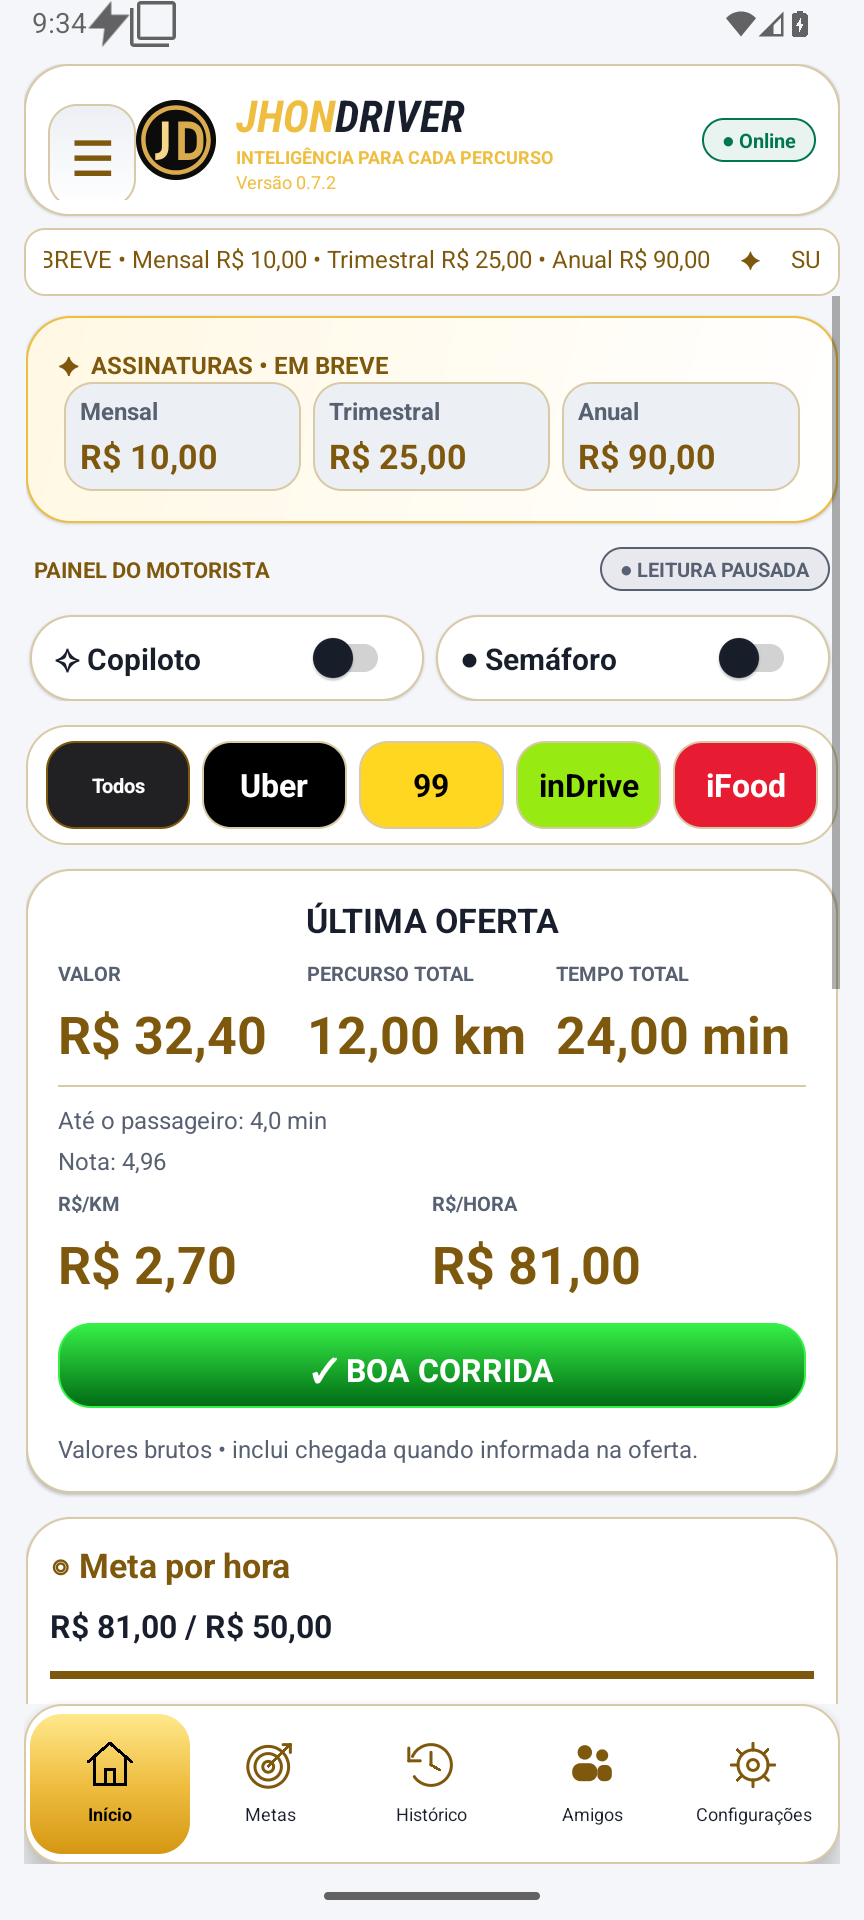
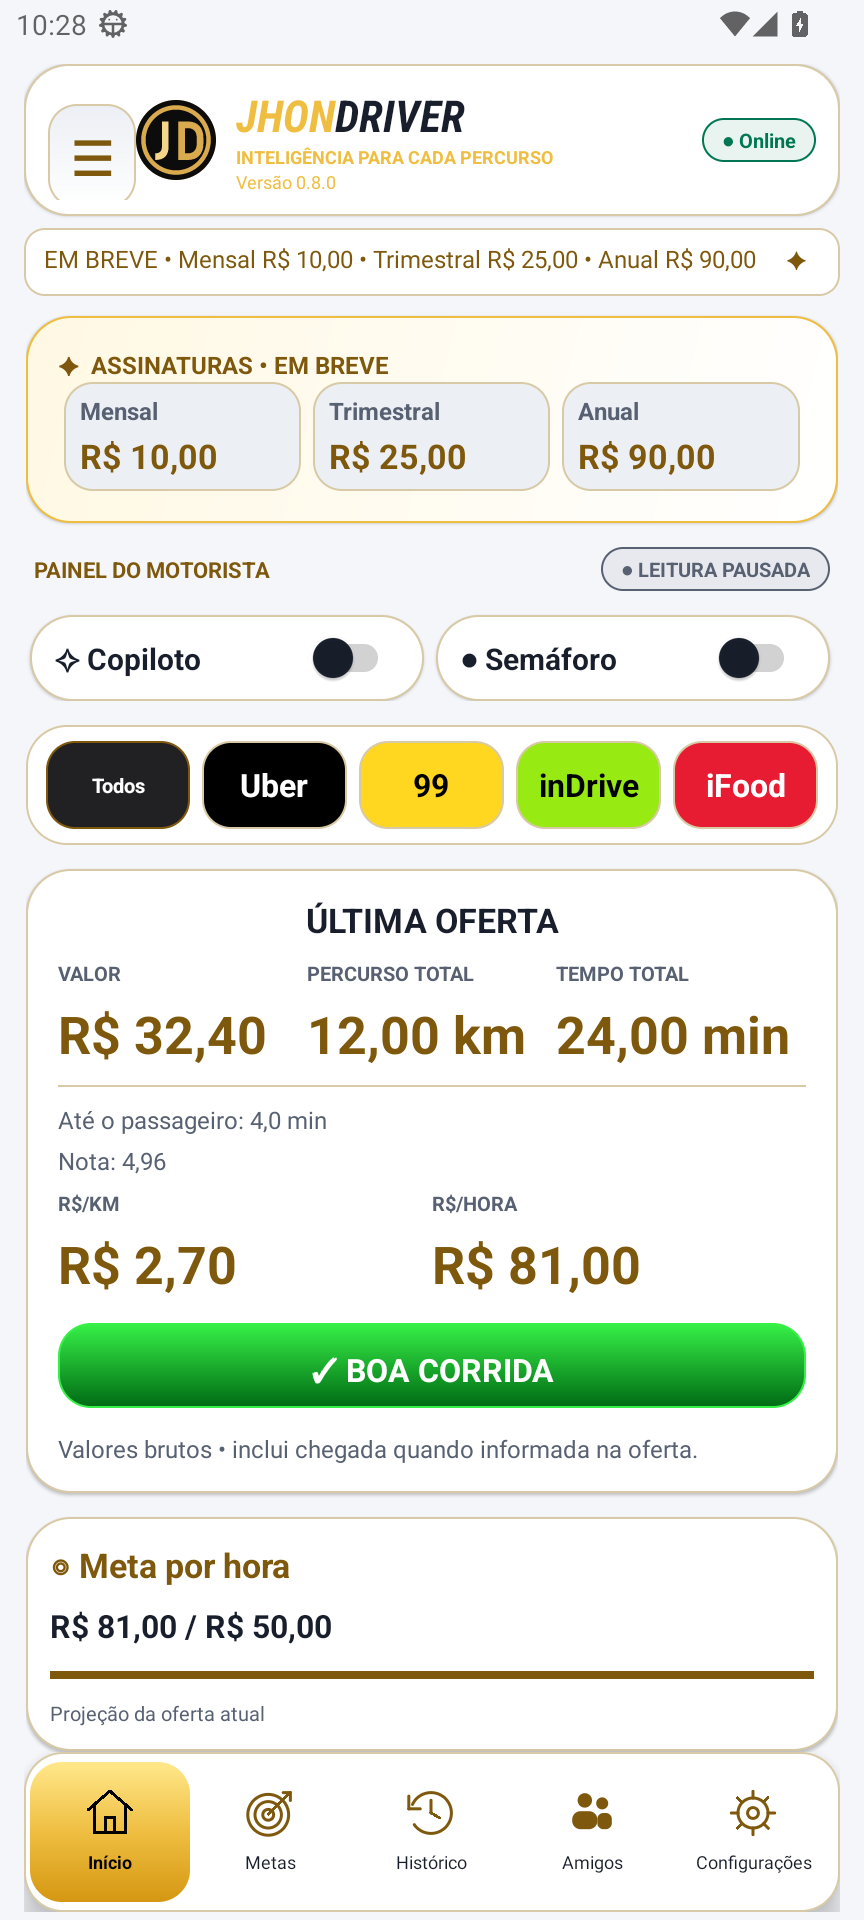
Document released 0.8.0 interface with final Android 13 captures

diff --git a/docs/previews/unified/README.md b/docs/previews/unified/README.md
@@ -1,6 +1,6 @@
 # JHONDRIVER — proposta de interface
 
-Capturas reais do aplicativo em emulador, com dados de exemplo. Prévia visual: ainda não publicada no APK. O número exibido nas telas é o da versão base.
+Interface publicada na versão **0.8.0**. Capturas reais do aplicativo em emulador Android 13, com dados de exemplo. Atualize em Configurações → Verificar atualização, sem desinstalar.
 
 O acabamento da tela de Amigos foi estendido ao painel, configurações, histórico, metas, etiquetas, suporte e entrada. Cabeçalho compacto, cartões consistentes e navegação com ícones vetoriais. Os temas claro e escuro mantêm as mesmas funções.
 
@@ -62,4 +62,4 @@ O acabamento da tela de Amigos foi estendido ao painel, configurações, histór
 
 ![Contatos e conversa lado a lado](chat-tablet.png)
 
-Validação: compilação, testes unitários e regressões de interface/privacidade/chat/áudio aprovados no Android 16. Verificação adicional mantém a classificação da corrida e o atalho de ajustar limites totalmente visíveis no tablet de teste.
+Validação: compilação, testes unitários e regressões de interface/privacidade/chat/áudio aprovados no Android 13 e 16. Verificação adicional mantém a classificação da corrida e o atalho de ajustar limites totalmente visíveis no tablet de teste.
